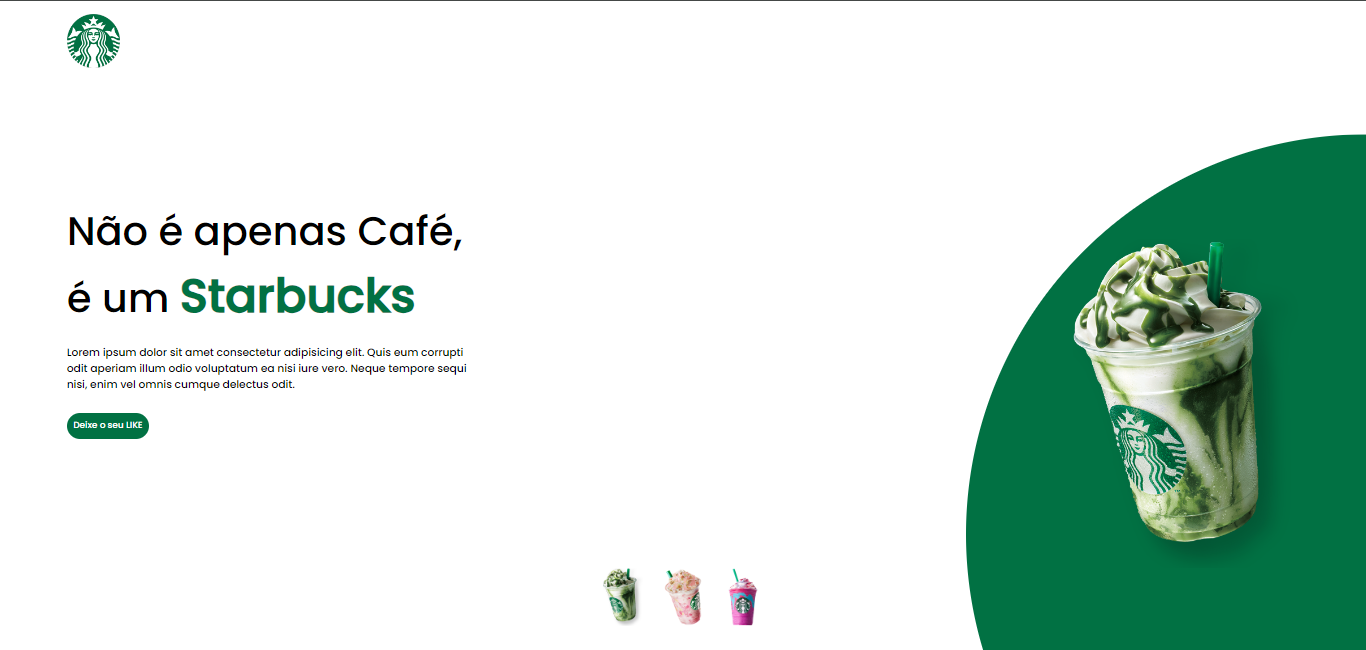
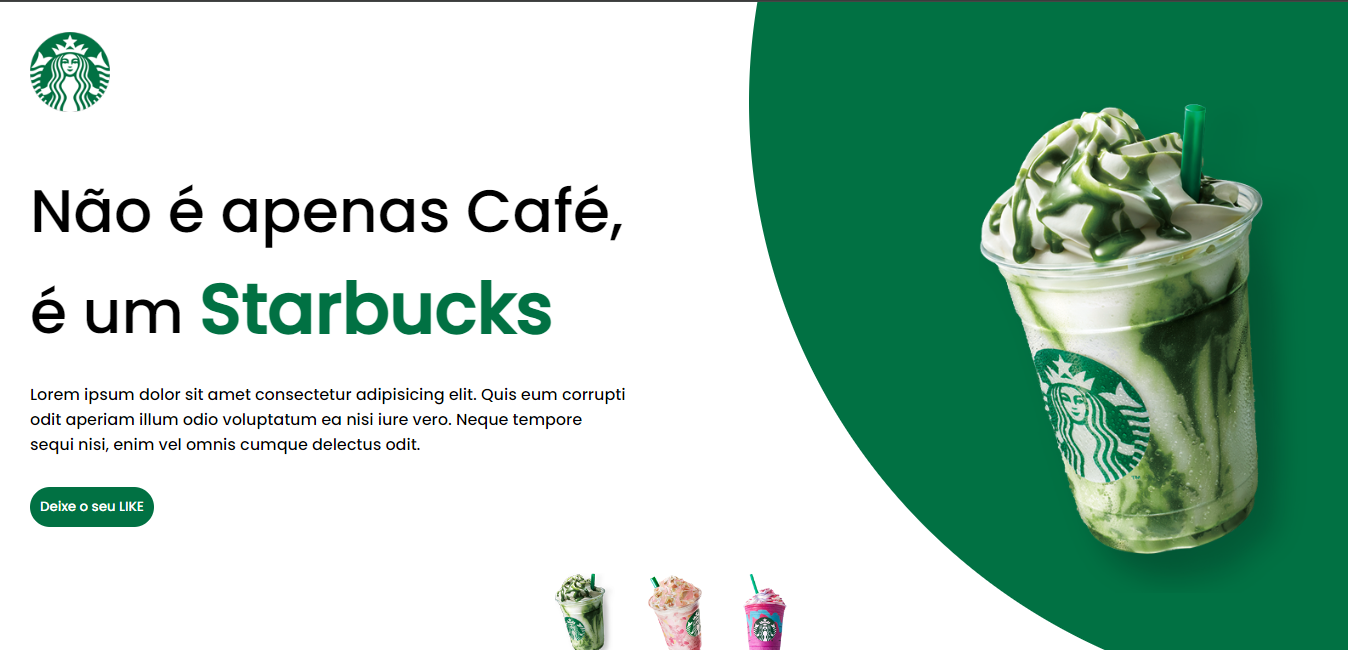
responsivo

diff --git a/index.html b/index.html
@@ -10,32 +10,40 @@
     <link rel="stylesheet" href="style.css">
     <title>Starbucks</title>
 </head>
+
 <body>
-    <div class="circulo"></div>
+    <div class="mae">
+        <div class="circulo"></div>
 
-    <img src="./assets/logo.png" alt="logo starbucks" class="logo">
+        <img src="./assets/logo.png" alt="logo starbucks" class="logo">
 
-    <div class="conteudo">
-        <div class="caixa-texto">
-            <h2> Não é apenas Café, é um <span>Starbucks</span></h2>
-            <p>Lorem ipsum dolor sit amet consectetur adipisicing elit. Quis eum corrupti odit aperiam illum odio
-                voluptatum
-                ea
-                nisi iure vero. Neque tempore sequi nisi, enim vel omnis cumque delectus odit.</p>
+        <div class="conteudo">
+            <div class="caixa-texto">
+                <h2> Não é apenas Café, é um <span>Starbucks</span></h2>
+                <p>Lorem ipsum dolor sit amet consectetur adipisicing elit. Quis eum corrupti odit aperiam illum odio
+                    voluptatum
+                    ea
+                    nisi iure vero. Neque tempore sequi nisi, enim vel omnis cumque delectus odit.</p>
 
-            <button>Deixe o seu LIKE</button>
+                <button>Deixe o seu LIKE</button>
+            </div>
+
+            <div class="caixa-imagem">
+                <img src="./assets/img1.png" alt="copa starbucks" class="starbucks">
+            </div>
         </div>
 
-        <div class="caixa-imagem">
-            <img src="./assets/img1.png" alt="copa starbucks" class="starbucks">
+        <div class="menu">
+            <img src="./assets/img-pequena1.png" class="copo-pequeno"
+                onclick="mudarImagem('./assets/img1.png'); mudarCor('#017143')">
+            <img src="./assets/img-pequena2.png" class="copo-pequeno"
+                onclick="mudarImagem('./assets/img2.png'); mudarCor('#eb7495')">
+            <img src="./assets/img-pequena3.png" class="copo-pequeno"
+                onclick="mudarImagem('./assets/img3.png'); mudarCor('#d752b1')">
         </div>
+
     </div>
 
-    <div class="menu">
-        <img src="./assets/img-pequena1.png" class="copo-pequeno" onclick="mudarImagem('./assets/img1.png'); mudarCor('#017143')">
-        <img src="./assets/img-pequena2.png" class="copo-pequeno" onclick="mudarImagem('./assets/img2.png'); mudarCor('#eb7495')">
-        <img src="./assets/img-pequena3.png" class="copo-pequeno" onclick="mudarImagem('./assets/img3.png'); mudarCor('#d752b1')">
-    </div>
 </body>
 
 <script src="./script.js"></script>

diff --git a/style.css b/style.css
@@ -4,11 +4,10 @@
     box-sizing: border-box;
     font-family: 'Poppins', sans-serif;
  }
+ /*div {border: 2px solid #000;}*/
  
- body {
-     padding-top: 20px; /* adiciona espaçamento */
-     padding-right: 100px;
-     padding-left: 100px;
+ .mae {
+    margin: 30px;
  }
  
  .conteudo {
@@ -16,17 +15,18 @@
      display: flex;
      justify-content: space-between; /* adiciona espaço entre os itens */
      align-items: center; /* alinha  tudo ao centro */
+     flex-wrap: wrap;
+     height: 390px;
  }
  
  .caixa-texto {
-     width: 600px;
+     width: 430px;
  }
  
  .caixa-imagem {
-     width: 600px;
+     width: 334px;
      display: flex;
      justify-content: flex-end; /* joga item todo pro lado */
-     margin-top: 250px;
  }
  
  .menu {
@@ -55,6 +55,8 @@
      font-size: 70px; /* muda tamanho do texto */
      font-weight: 900;  /* muda a grossura do texto */
      
+     
+     
  }
  
  p {
@@ -70,7 +72,6 @@
  
  .starbucks {
      width: 340px;
-      
  }
  
  .copo-pequeno {
@@ -90,52 +91,39 @@
      position: absolute;
      top: 0;
      left: 0;
-     clip-path: circle(600px at right 800px);
+     clip-path: circle(600px at right 100px);
      z-index: -1; /* define se o item está a frente ou atrás */
  }
 
  img {
-    max-width: 100%;
+    max-width: 315px;
     height: auto;
 }
 
-@media only screen and (max-width: 768px) {
-    body {
-        padding: 20px; 
-    }
-
+@media only screen and (max-width: 960px) {
+    
     button {
-        background-color: white;
-        color: black;
+        background-color: black;
+        color: white;
     }
 
     .content {
         flex-direction: column;  
         text-align: center;
     }
-
-    .menu {
-        display: flex;
-        justify-content: center;
-        align-items: center;
-    }
-
-    .text-box,
-    .img-box {
-        width: 100%;  
-    }
-
-    .img-box {
-        margin-top: 20px; 
-        justify-content: center;  
-    }
-
     h2 {
-        font-size: 40px;  
+        font-size: 25px;
+    }
+
+    p {
+        display: none;
+    }
+    .starbucks {
+        width: 160px;
     }
 
     span {
-        font-size: 50px;
+        font-size: 46px;
         color: black;  
     }
 }
